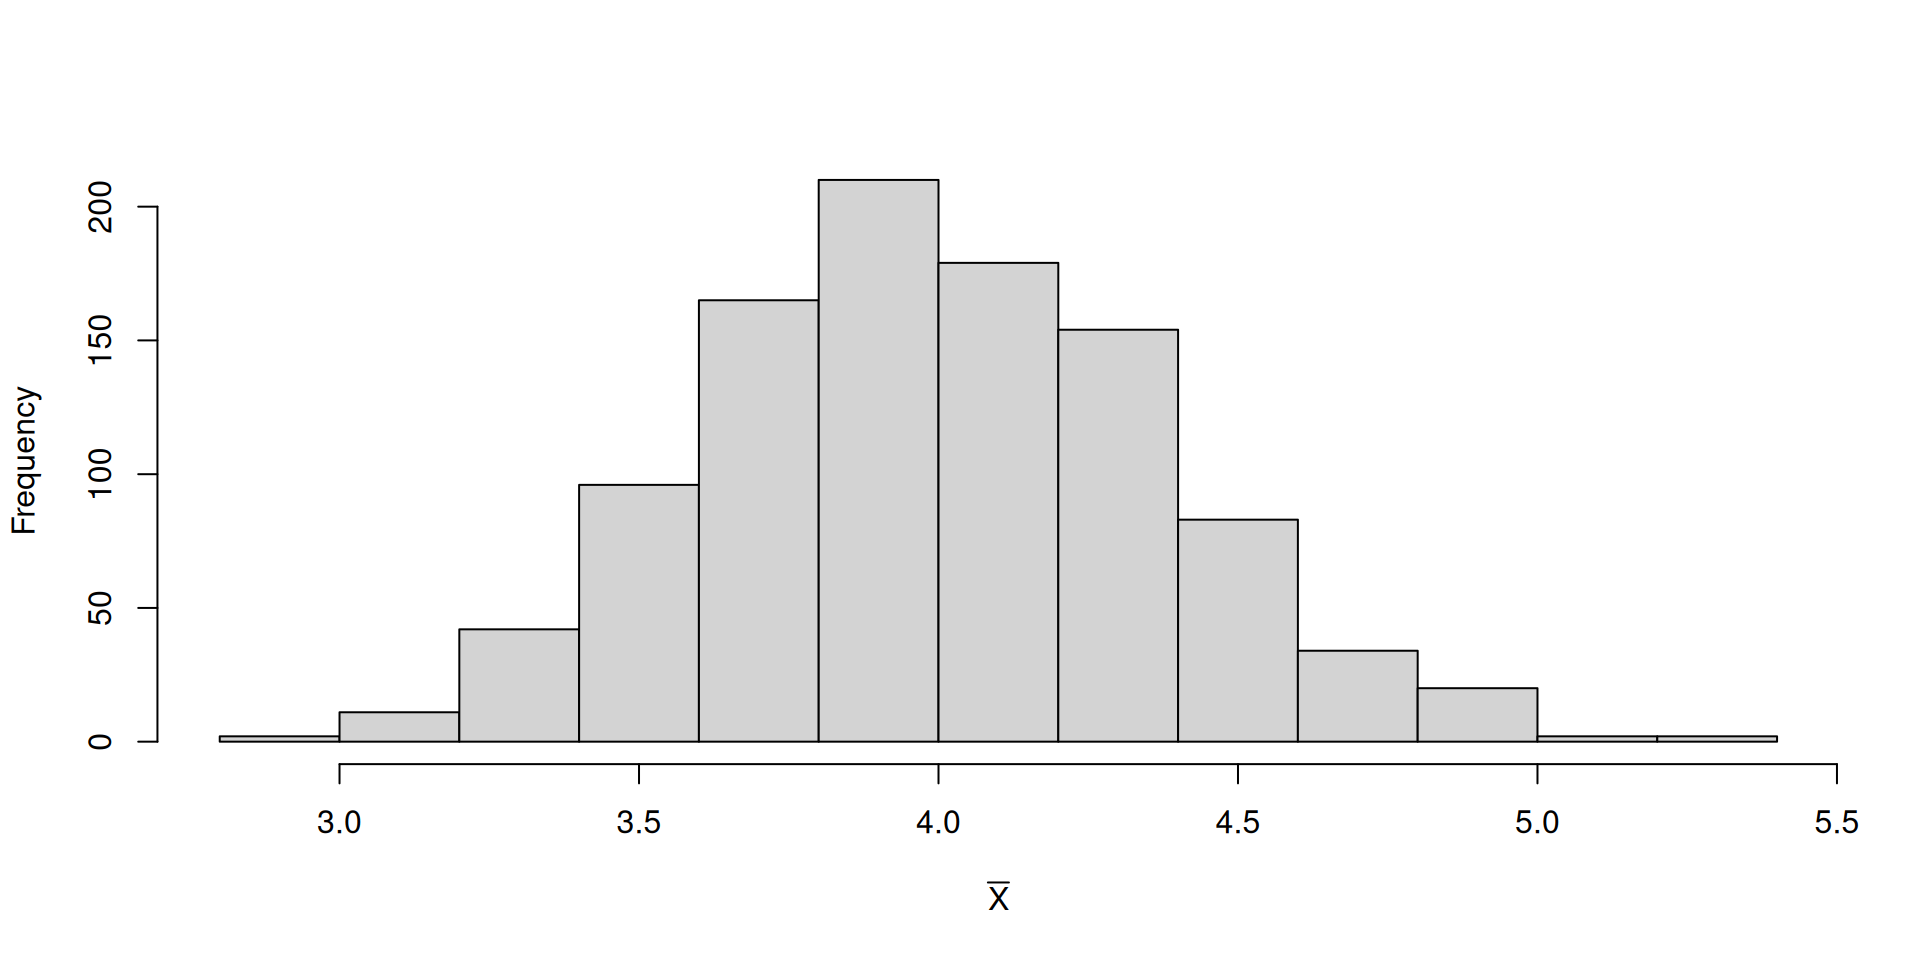
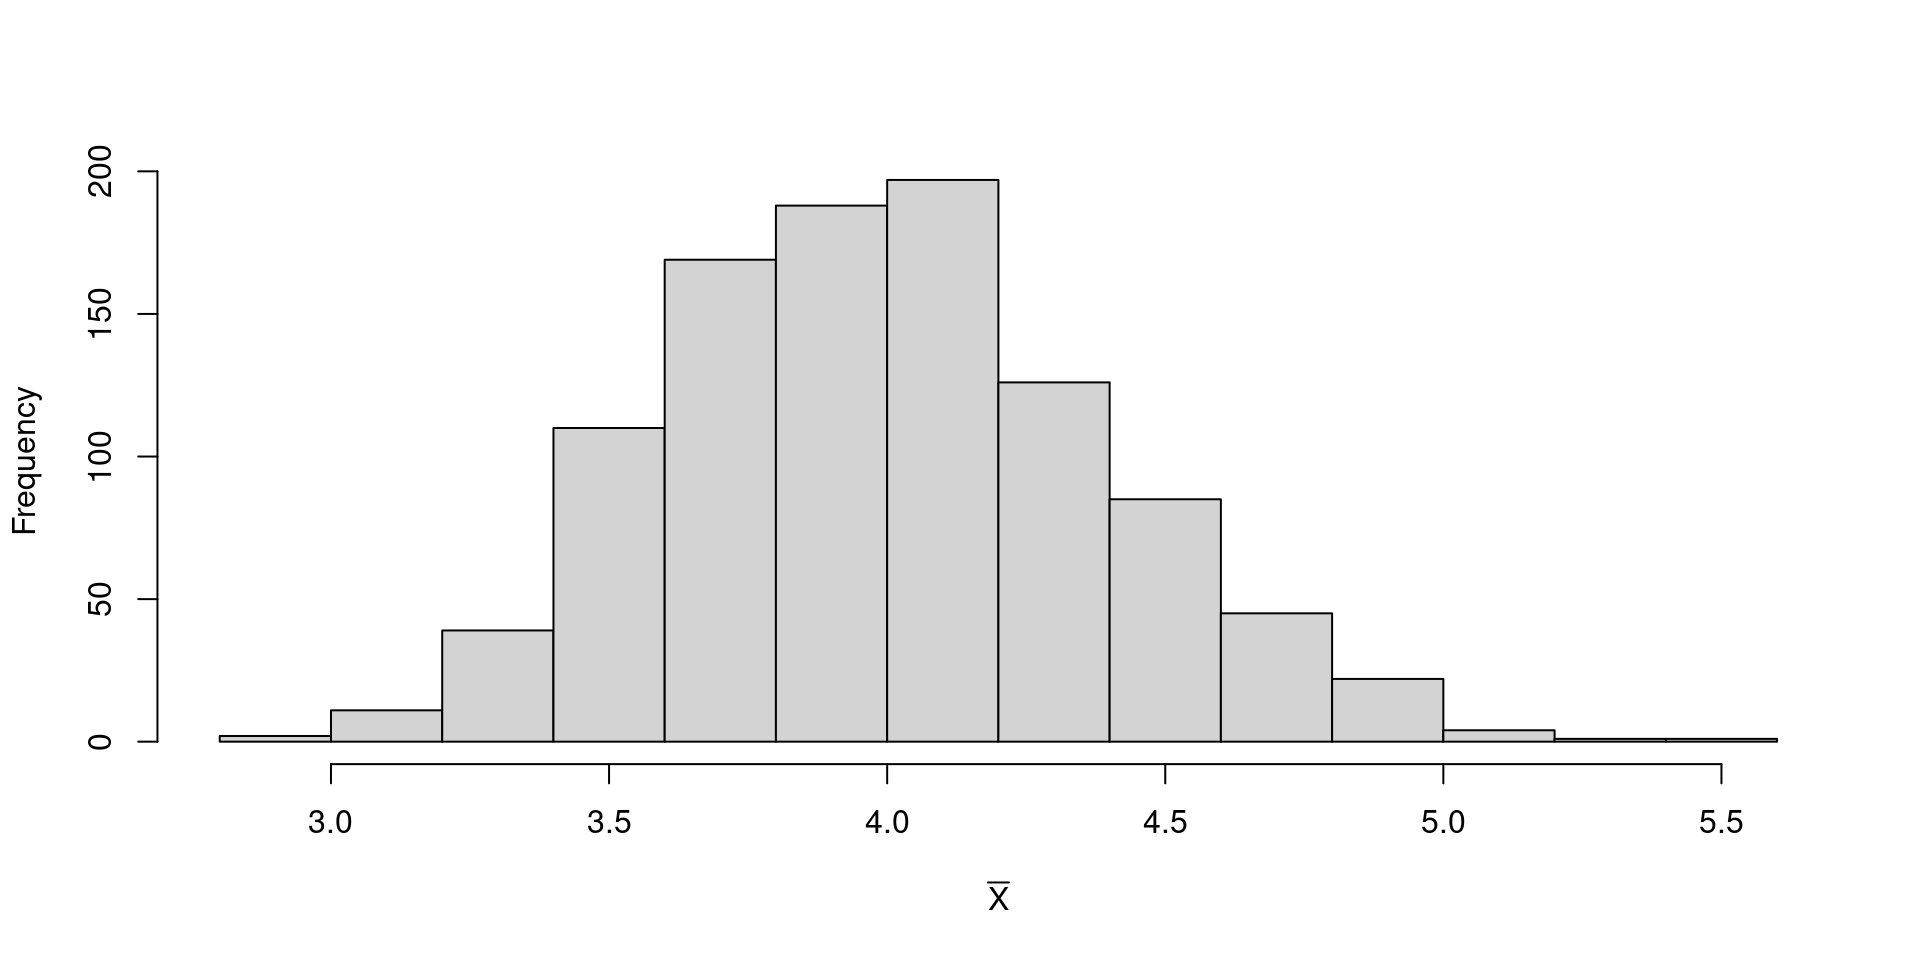
typos, aula 8. exercicios 7 e 8 e inicio da lista 2

diff --git a/slides/aula4/slide.html b/slides/aula4/slide.html
@@ -454,7 +454,7 @@ Leo Bastos
 <p>Seja <span class="math inline">\(X\)</span> uma v.a. com distribuição <span class="math inline">\(U(0,1)\)</span>, i.e.&nbsp;<span class="math inline">\(f_X(x) = \mathbb{I}_{X\in (0,1)}(x)\)</span>, e seja <span class="math inline">\(Y=X^2\)</span>. Calcule <span class="math inline">\(\mathbb{E}[X^2]\)</span></p>
 <div class="fragment">
 <p>Caminho 1:</p>
-<p><span class="math display">\[\mathbb{E}[Y = X^2] = \int_0^1 y f_X(y^{1/2}) \left|\frac{d}{dy} y^{1/2}\right| dy \\ = \int_0^1 y \times 1 \times \frac{1}{2} y^{-1/2} dy \\ = \int_0^1 \frac{1}{2} y^{1/2} dy \\ = \left. \frac{1}{2} \frac{y^{3/2}{3/2}}\right|_0^1 = 1/3 \]</span></p>
+<p><span class="math display">\[\mathbb{E}[Y = X^2] = \int_0^1 y f_X(y^{1/2}) \left|\frac{d}{dy} y^{1/2}\right| dy \\ = \int_0^1 y \times 1 \times \frac{1}{2} y^{-1/2} dy \\ = \int_0^1 \frac{1}{2} y^{1/2} dy \\ = \left. \frac{1}{2} \frac{y^{3/2}}{3/2}\right|_0^1 = 1/3 \]</span></p>
 </div>
 <div class="fragment">
 <p>Caminho 2:</p>
@@ -675,7 +675,7 @@ Leo Bastos
 <span id="cb1-7"><a href=""></a><span class="co"># Gerando uma amostra de tamanho 100 e tomando a média</span></span>
 <span id="cb1-8"><a href=""></a><span class="fu">aaa</span>(<span class="dv">100</span>)</span></code><button title="Copy to Clipboard" class="code-copy-button"><i class="bi"></i></button></pre></div>
 <div class="cell-output cell-output-stdout">
-<pre><code>[1] 3.175188</code></pre>
+<pre><code>[1] 3.467314</code></pre>
 </div>
 </div>
 </div>
@@ -685,7 +685,7 @@ Leo Bastos
 <div class="cell">
 <div class="cell-output cell-output-stdout">
 <pre><code>    mean      var 
-4.032173 1.619600 </code></pre>
+4.012860 1.619578 </code></pre>
 </div>
 
 </div>
@@ -695,7 +695,7 @@ Leo Bastos
 <div class="cell">
 <div class="cell-output cell-output-stdout">
 <pre><code>     mean       var 
-3.9919691 0.1439443 </code></pre>
+3.9928044 0.1553979 </code></pre>
 </div>
 
 </div>
@@ -705,7 +705,7 @@ Leo Bastos
 <div class="cell">
 <div class="cell-output cell-output-stdout">
 <pre><code>      mean        var 
-3.99988568 0.01586388 </code></pre>
+3.99716423 0.01579887 </code></pre>
 </div>
 
 </div>

diff --git a/slides/aula5/slide.html b/slides/aula5/slide.html
@@ -478,7 +478,7 @@ Leo Bastos
 </section>
 <section id="exemplos-exponencial-1" class="slide level2 scrollable">
 <h2>Exemplos (Exponencial)</h2>
-<p>Se <span class="math inline">\(X \sim Exp(\lambda\)</span> então <span class="math display">\[ M_X(t) = \frac{\lambda}{\lambda - t}, \qquad t&lt; \lambda.\]</span></p>
+<p>Se <span class="math inline">\(X \sim Exp(\lambda)\)</span> então <span class="math display">\[ M_X(t) = \frac{\lambda}{\lambda - t}, \qquad t&lt; \lambda.\]</span></p>
 <div class="fragment">
 <p><span class="math display">\[\mathbb{E}[X] = M'_X(0) = \left.-\frac{\lambda}{(\lambda - t)^2}(-1)\right|_{t=0}=\frac{1}{\lambda}\]</span></p>
 </div>

diff --git a/README.md b/README.md
@@ -38,8 +38,8 @@ Revisão de variáveis aleatórias e Teorema Central do Limite. Conceitos e proc
 | 4 |  [Slides](https://htmlpreview.github.io/?https://github.com/lsbastos/md21/blob/main/slides/aula4/slide.html) e [exercícios](listas/exercicios4.md)   | Rice 4.1-4.3  e Wasserman  3.1-3.4 |
 | 5 |  [Slides](https://htmlpreview.github.io/?https://github.com/lsbastos/md21/blob/main/slides/aula5/slide.html) e [exercícios](listas/exercicios5.md)   | Wasserman 3.5-3.6; 4.1; 5.1-5.3  |
 | 6 |  [Slides](https://htmlpreview.github.io/?https://github.com/lsbastos/md21/blob/main/slides/aula6/slide.html) e [exercícios](listas/exercicios6.md)   | Wasserman 5.4  |
-| 7 |  [Slides](https://htmlpreview.github.io/?https://github.com/lsbastos/md21/blob/main/slides/aula7/slide.html) e [sem exercícios]   | Wasserman capitulo 6.1 e 6.2  |
-| 8 |  [Slides](https://htmlpreview.github.io/?https://github.com/lsbastos/md21/blob/main/slides/aula8/slide.html) e [exercícios]   | Wasserman capitulo 6.3 e Rice 6.1-6.3  |
+| 7 |  [Slides](https://htmlpreview.github.io/?https://github.com/lsbastos/md21/blob/main/slides/aula7/slide.html) e [exercícios](listas/exercicios7.pdf)   | Wasserman capitulo 6.1 e 6.2  |
+| 8 |  [Slides](https://htmlpreview.github.io/?https://github.com/lsbastos/md21/blob/main/slides/aula8/slide.html) e [exercícios](listas/exercicios8.md)   | Wasserman capitulo 6.3 e Rice 6.1-6.3  |
 
 ### Listas
 
